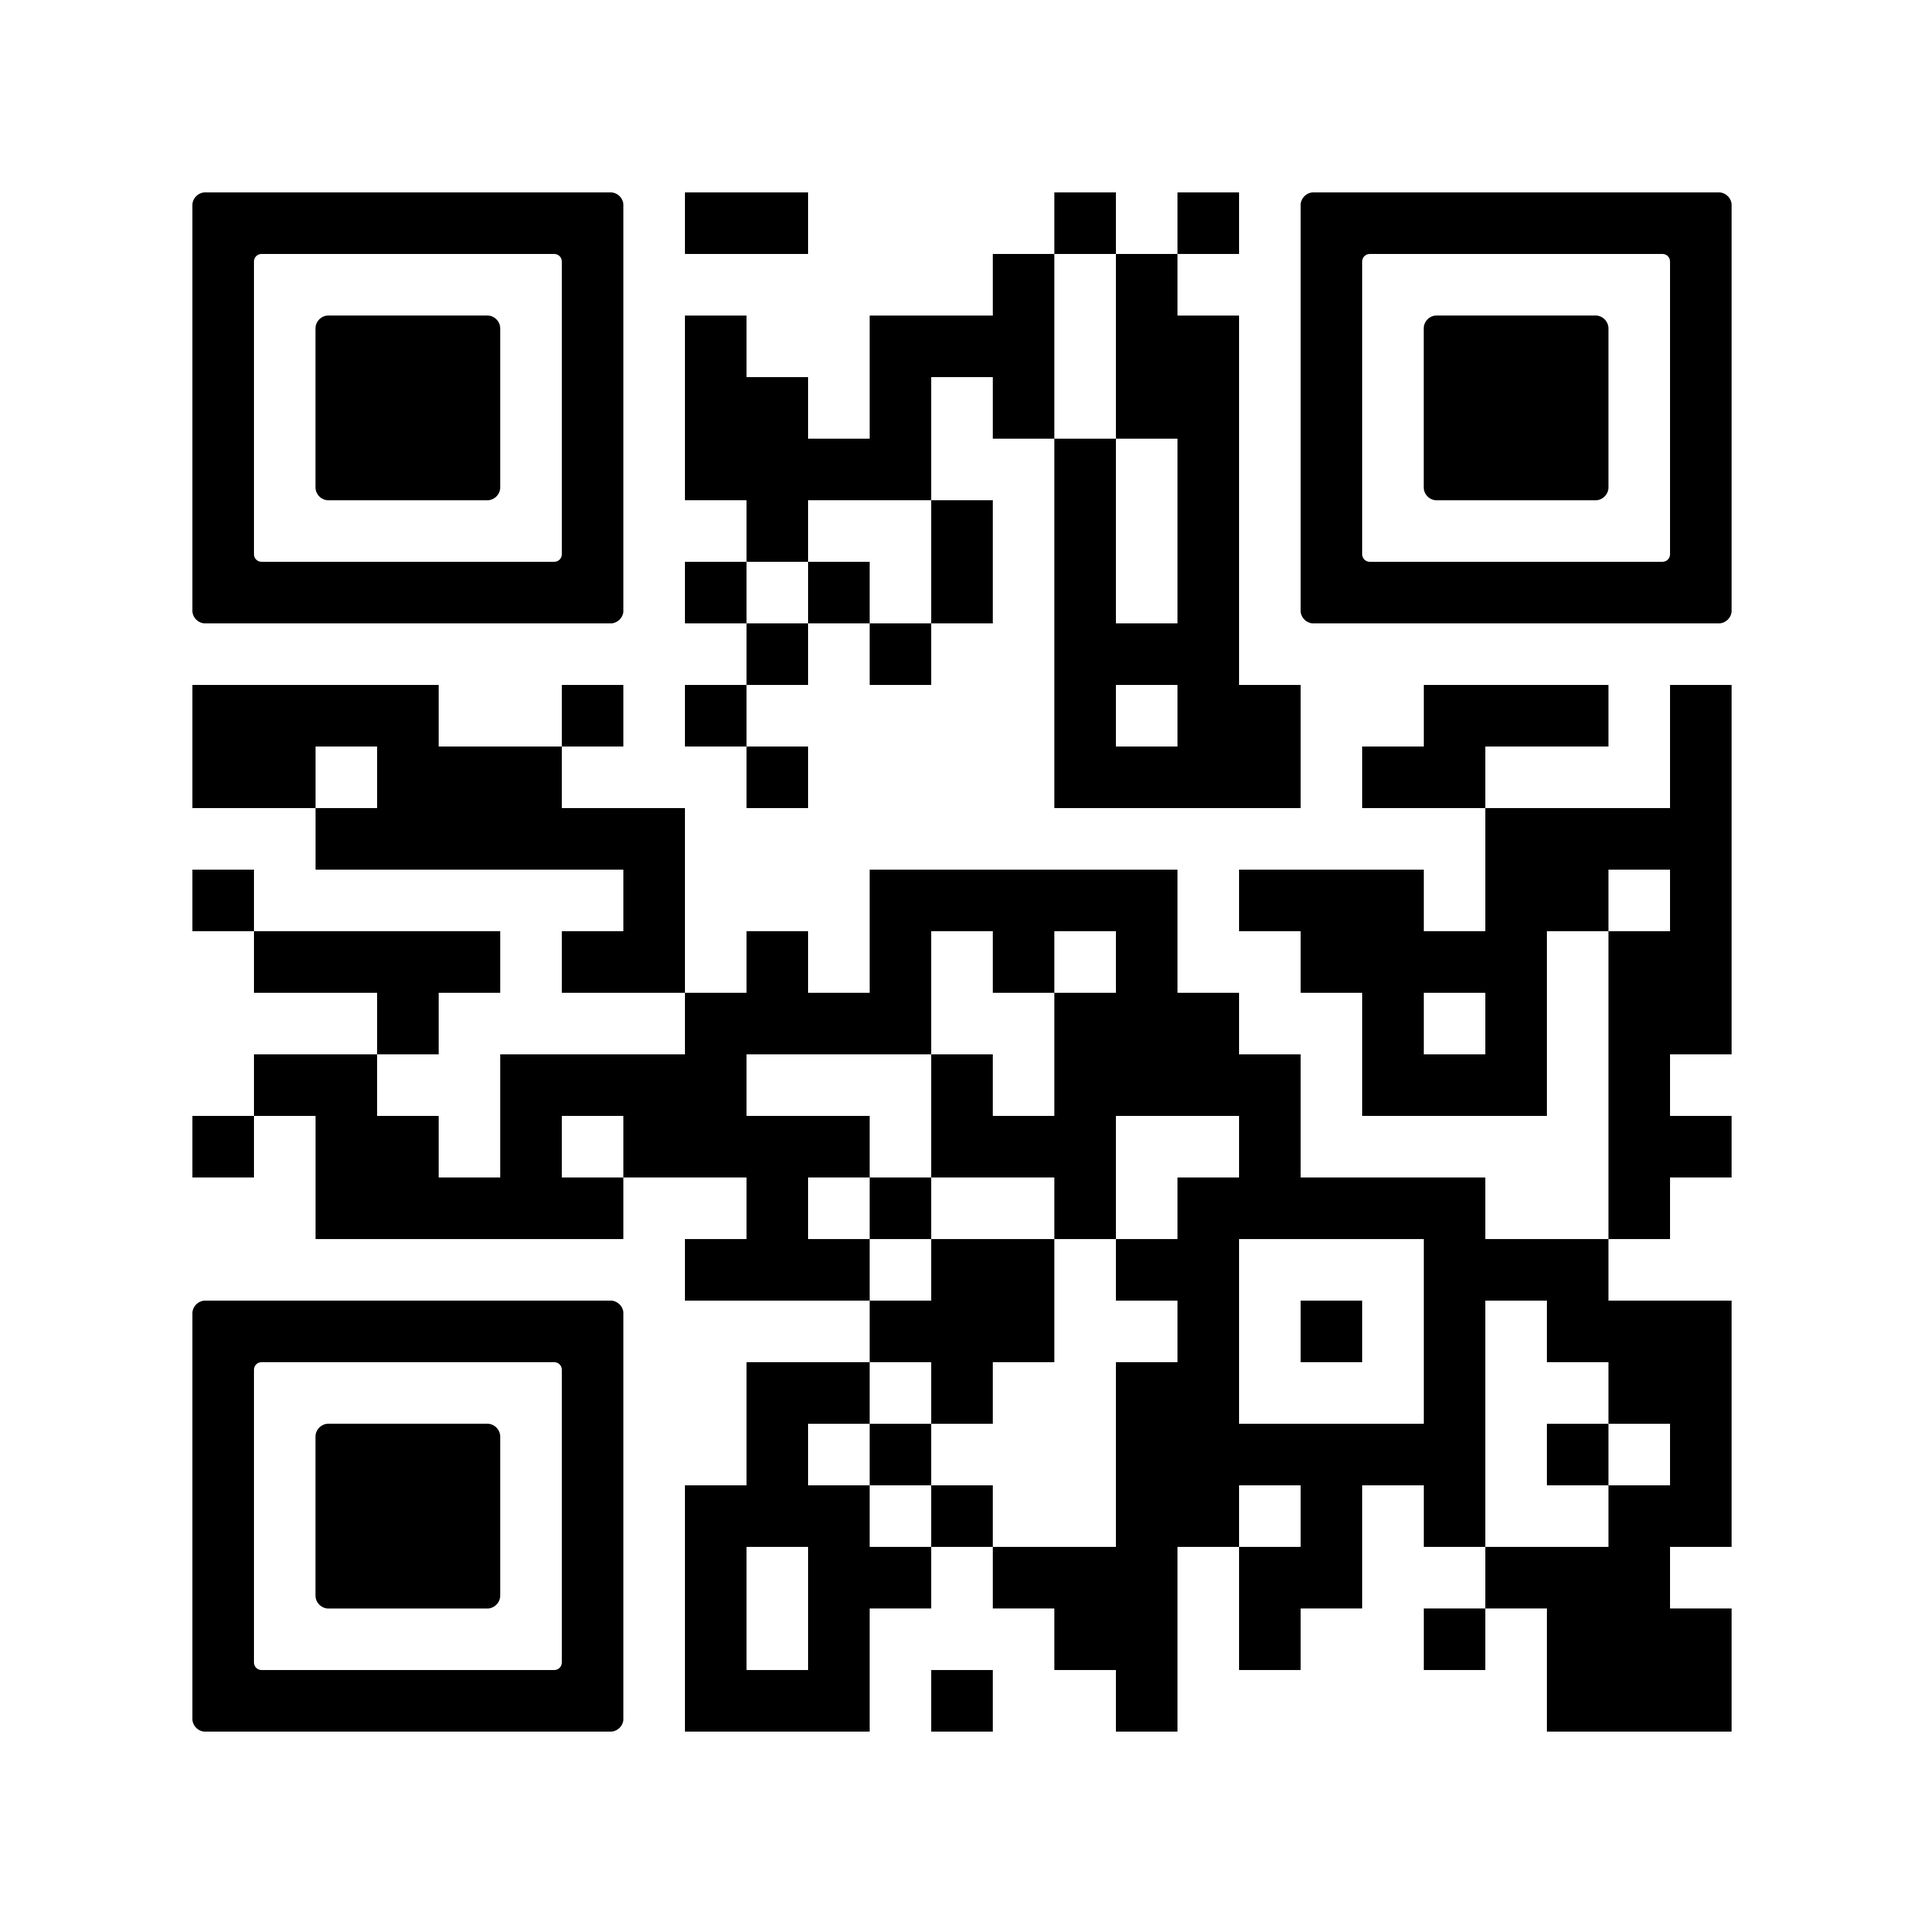
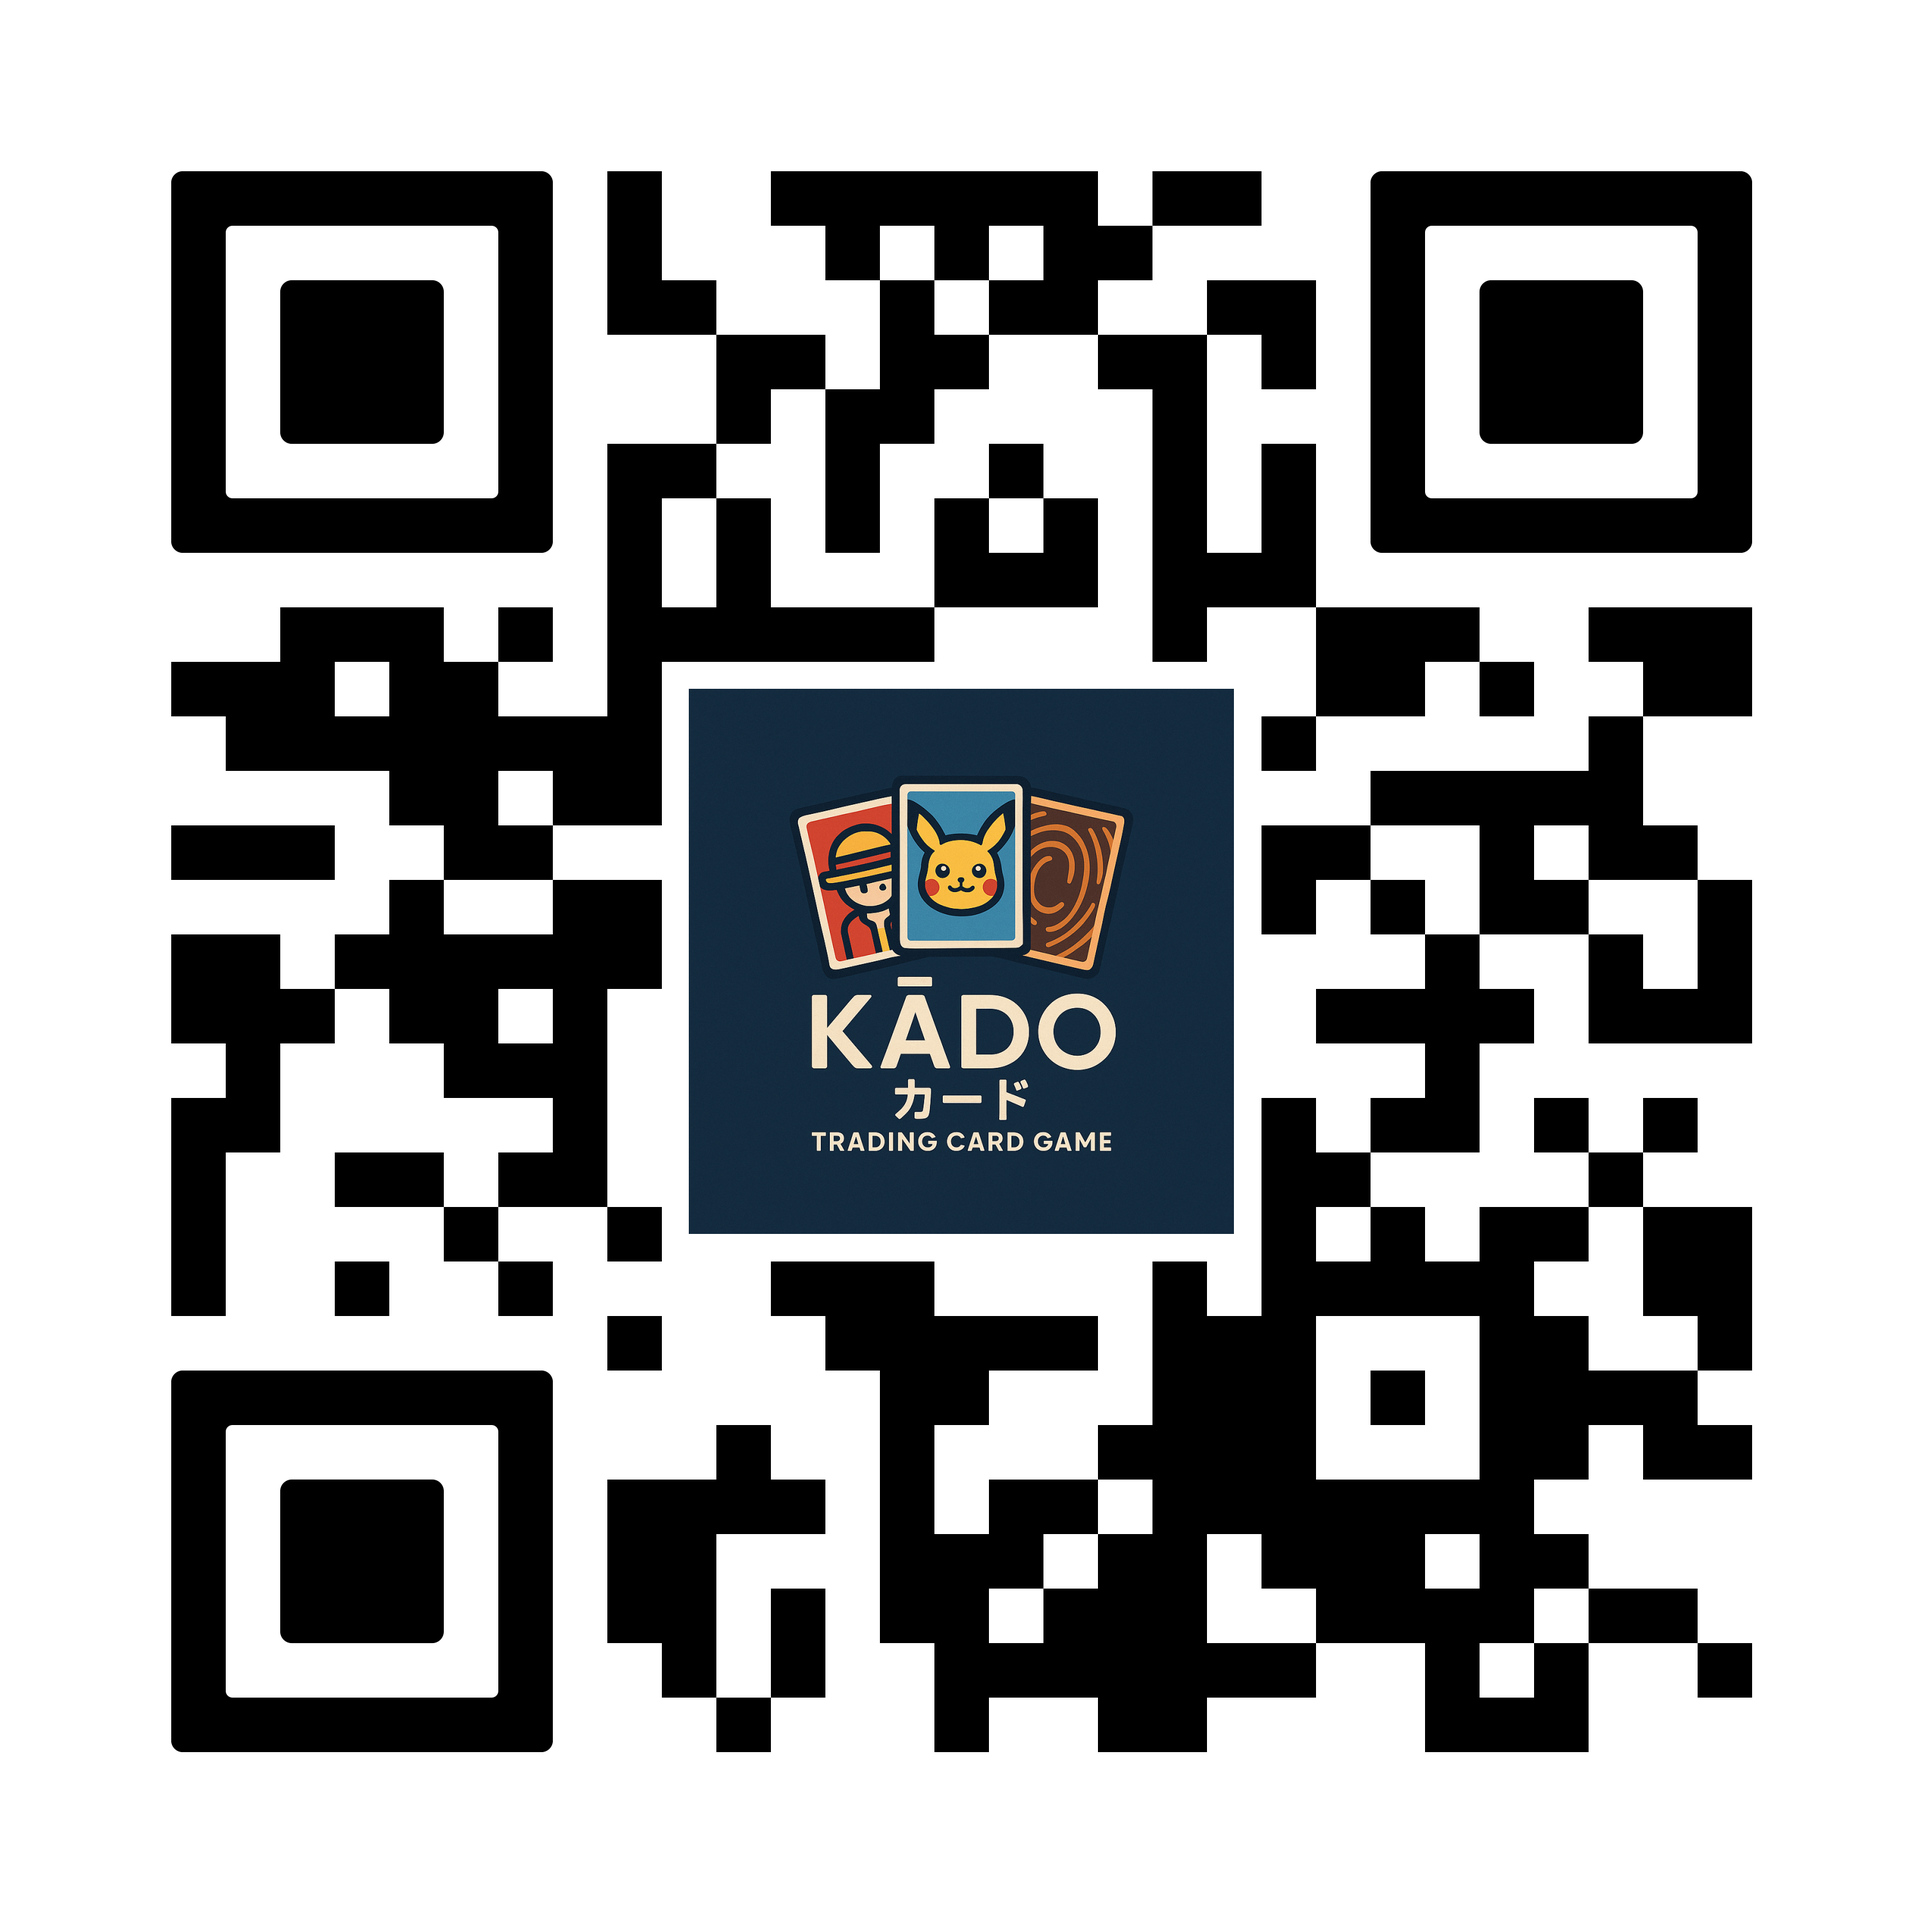
update qr

diff --git a/src/pages/DowloadPage.jsx b/src/pages/DowloadPage.jsx
@@ -6,7 +6,7 @@ const QR_CODE_URL = "/qr.png";
 const MASCOT_URL = "/kado-mascot.png";
 const BACKGROUND_IMAGE_URL = "/kado-bg.png";
 const DOWNLOAD_URL =
-  "https://api.expo.dev/v2/artifacts/eas/g1LwqbibZeAkgq9Tc2v6GA";
+  "https://api.expo.dev/v2/artifacts/eas/w9vqqvZ9586cMj3ADaiZ48";
 
 function DowloadPage() {
   const [activeTab, setActiveTab] = useState("ANDROID");
